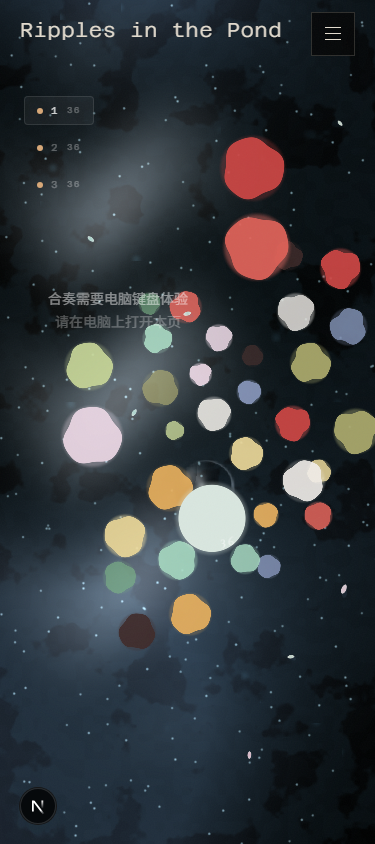
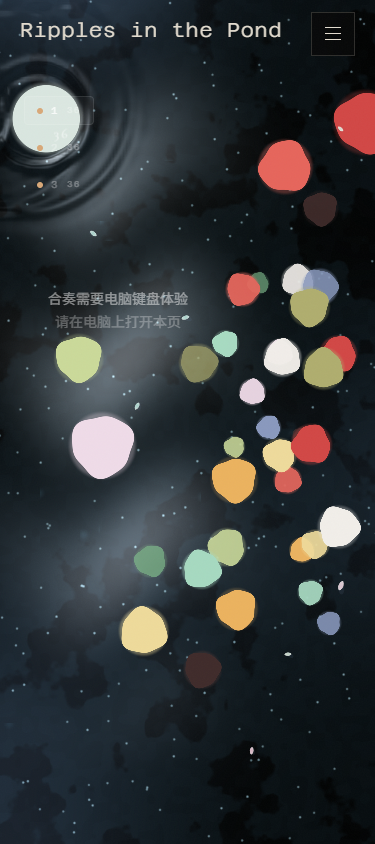
test(p14): 固化生产日食验收证据
记录 main 发布与 Production READY 读回，补充浏览器前台可见性护栏并刷新正式域名截图。

concepts: production-smoke, page-visibility, release-evidence

diff --git a/STATUS.md b/STATUS.md
@@ -45,7 +45,7 @@
 
 **P15 发布（2026-09-13）**：P15-0/A/B/C/D/E/F 全部完成；合并 P14-G 的 `2be3786` 已通过 Vercel Preview 与 Production。150 次真实 Link 与初始 300 次冷热直达有效，首页 glHealth 健康、Long Task max 58ms、CLS 0；Pond Echo 10 次 cold 预计首声 p95 433.7ms、10 次 hot p95 125.4ms，第 5 段排程通过。线上 5 个公开页面均 200，tracks 精确 35、Featured ECHO #1 为 36 位 recipe/26 个唯一 clip，P14/P15 双 marker 存在，授权 health 为 DB/wallet ok、队列 1 success/2 excluded/0 active/failed/manual、alerts 空。真实双账号、物理手机、人耳听音及未覆盖矩阵按用户决定转为非阻塞 review；E4–E5 新镜像因无获批供应商保持关闭。P15 草稿 SQL 在仓库顺延为 `051` 且 blob 不变；远端 history 仅在核清既有 `050` 归属后补记，不重放 SQL。详见 `reviews/2026-09-13-phase-15-final-review.md`。
 
-**P14 日食视觉纠正（2026-09-17）**：撤销过宽的全场 `scenePresence` 淡出，改为背景专用 `eclipseMix` 与独立音乐圆焦点。日食只把水底贴图平滑换成黑色贴图，全部音乐圆按原方案退场；水波、高光、焦散、motes、petals、grain 与 P9 保持运行。P15 首屏 CSS fallback 先播放、WebGL 后恢复的 ECHO 焦点竞态已修复；20 次播放、ECHO、33/33 P9、移动端、fallback 与同一 WebGL context 的集成候选 Gate 已通过，等待 `main` 发布后的 Production 读回。
+**P14 日食视觉纠正（2026-09-17）**：撤销过宽的全场 `scenePresence` 淡出，改为背景专用 `eclipseMix` 与独立音乐圆焦点。日食只把水底贴图平滑换成黑色贴图，全部音乐圆按原方案退场；水波、高光、焦散、motes、petals、grain 与 P9 保持运行。P15 首屏 CSS fallback 先播放、WebGL 后恢复的 ECHO 焦点竞态已修复；代码提交 `c8e59d2` 已快进 `main`，Production `dpl_83R9rYQ1pU42GekUSudocQ79xtAi` READY。正式域名首页、35 首 API、ECHO #1 的 36 位配方/26 个唯一片段与黑色贴图均 200；线上 20 次播放、ECHO、33/33 P9、移动端、fallback 与同一 WebGL context Gate 全绿。
 
 **P8-L 动态验收微调（2026-08-23）**：视差/流场上限微调已完成。真透明 R3 最终维修已完成浏览器自动复验：球网格改为挂载时绑定独立 FBO layer，水上实体主体最后覆盖湿背景，水下球保留水纹；完全出水球中心点击时涟漪只绕过主体，`alphaFlicker` 开启后主体覆盖仍稳定。**2026-08-26 用户最终目验确认 R3 与 L 线“活而不乱”合适，验收门已关闭。**
 
